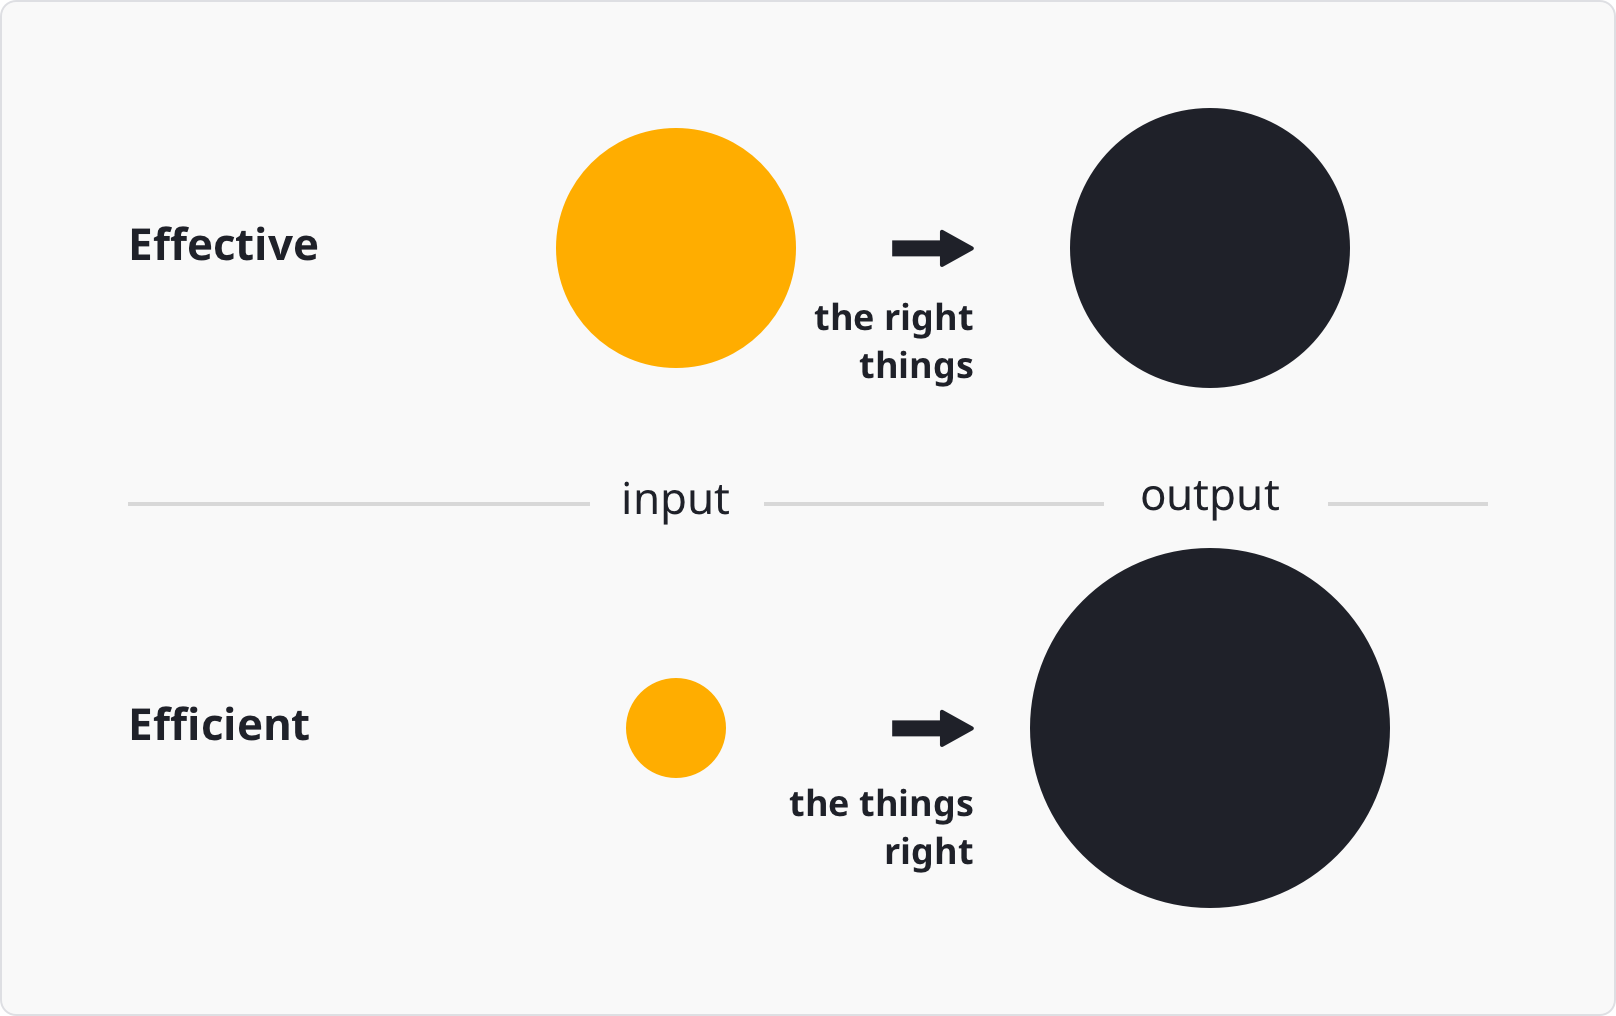
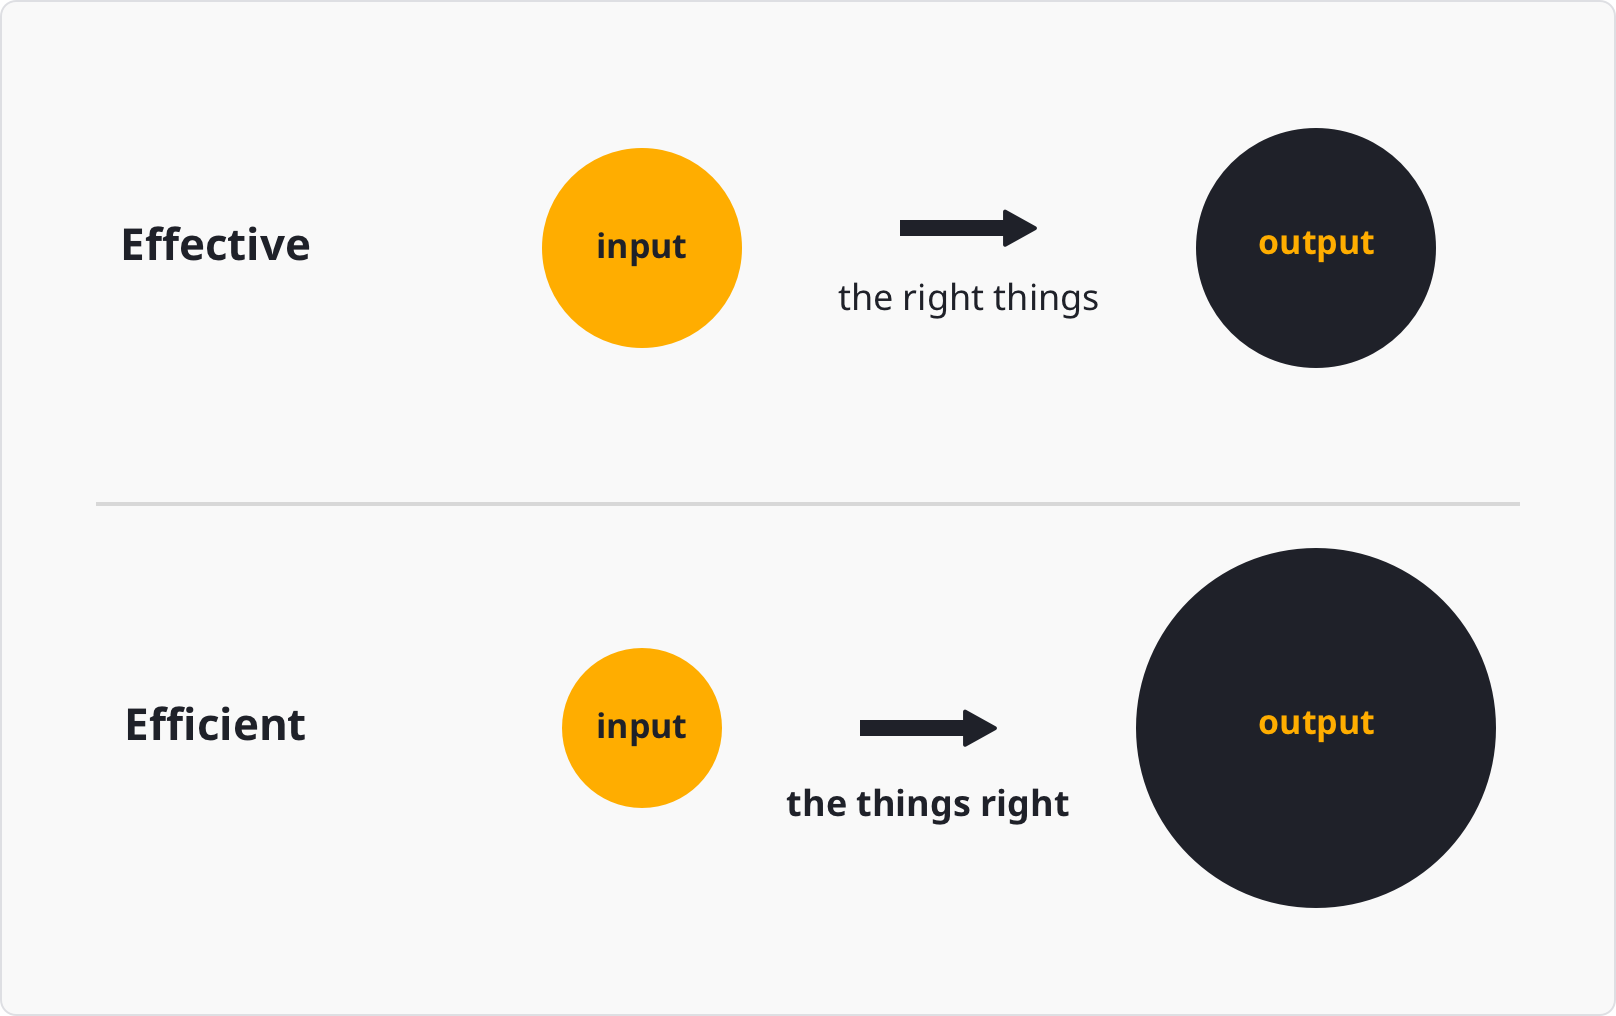
add draft content to invest section

diff --git a/hs-invest.md b/hs-invest.md
@@ -3,49 +3,43 @@ active: invest
 layout: default
 ---
 
-This website is meant primarily for potential investors and software developers looking for a secure and trustless way to invest in the very first commercial DAO company that replicates the business model of traditional for-profit corporations.
+This website is meant to be a guide for potential investors and software developers interested in becoming one of the decentralized owners of the independent for-profit DAO company.
 
-While we have no means to control who invests in Horizontal Systems DAO ideally we welcome investors and funds that clearly understand what DAO is and how it opeartes. We encourage poetntial investors to review Horizontal Systems repositories on Github to make sure that everything works exactly as claimed.
+While existing shareholders have no means to control who invests in Horizontal Systems DAO we invite parties which understand what this DAO is and how it operates. 
 
+We urge potential investors to read the information provided here and then verify that information by looking up the underlying smart contracts for [Horizontal Systems DAO](https://github.com/horizontalsystems/daico-smart-contracts  ) on the Ethereum blockchain.
 
-
-
-
-
+**Horizontal Systems DAO contract address: _to be provided after official launch_**
 
 
- - For profit
+<h2><center>Investors (Shareholders)</h2></center>
 
-You may easily verify that Horizontal Systems DAO is implemented the way shown above by looking up the underlying smart contracts for [Horizontal Systems DAO](https://github.com/horizontalsystems/daico-smart-contracts  ) on the Ethereum blockchain.
+Horizontal Systems DAO shares are represented as HSDAO tokens. Anyone owning HSDAO tokens is automatically a shareholder and able to exercise the influence over the DAO.
 
-- HS DAO contract: (token contract address)
-- HS DAICO contract: (token sale conrtact adderss)
-- HS Team contract: contract address
-- HS Investors contract: contract address
+The amount of tokens determines the amount of influence token holder has over the company. The investors are the ones who get to split company profits and control the finances. 
 
-**Note: The contracts are going to be available on Ethereum Blockchain after the token sale has been launched. The token sale will be launched after the very first product, a [BANK Wallet](https://github.com/orgs/horizontalsystems/projects/2), is live.**
+Tokens in circulation: _to be provided after official launch_
 
-Horizontal Systems DAO shares are represented as HSYS tokens. The amount of tokens determines the amount of influence token holder has over the company.
+
+<h2><center>Token Sale</h2></center>
 
 The process through which the tokens are sold is called [DAICO](https://cointelegraph.com/explained/what-is-a-daico-explained), which was initially proposed by [Vitalik Buterin](https://en.wikipedia.org/wiki/Vitalik_Buterin), a founder of Ethereum blockchain. 
 
+Unlike the traditional ICO models, the DAICO model offers significant advantage and guarantees security of invested funds:
 
-Unlike the traditional ICO models, the DAICO model offers significant adavntage and guatantess security of invested funds:
-
-- transparrent model
-- nearly zero risk
+- transparent model and nearly zero risk
 - backed by open source code
-- fully transapparent workflow
+- allows investors to collectively dissolve the company and return the invested funds.
 
-The investors are the ones who get to split company profits and control the finances. 
+
+<h2><center>Why Invest</h2></center>
 
 As we release dApps we aim to integrate monetization features into every decentralized product we develop. The apps will include various extra paid features on top of the standard functionality. 
 
 Unlocking these features will cost some money (charged in crypto) that would be directly deposited (in real time) to unchangeable investor-controlled smart contract which is designed to store and distribute profits from all released products. 
 
-
-the code is open-source: necessaru to boost adoption
-
-While we built these repositories specifically for the Horizontal Systems DApps they are also being released to global blockchain developer community to enable developers worldwide to build branded decentralized wallets, exchanges and other blockchain-powered DApps.
+As we build Horizontal Systems DApps we are releasing several software repositories to the crypto ecosystem enabling developers worldwide to build branded decentralized wallets, exchanges and other blockchain-powered DApps.
 
 The current milestones and progress on each milestone can be seen under the [Projects section](https://github.com/orgs/horizontalsystems/projects) on Github. Note that while the projects may seem unrelated for the most part they are closely interdependent. 
+
+<br/><br/>

diff --git a/hs-team.md b/hs-team.md
@@ -3,49 +3,54 @@ active: team
 layout: default
 ---
 
+At Horizontal Systems we are strong proponents of an efficient engineering process.
+
+<h2><center>The Right Way</center></h2>
+
+Doing the right things is a first step towards efficiency, however the real mastery achieved when **things are done the right way**, especially in software. 
+
+![Doing Things Right](/assets/images/efficient.png)
+
+The following quote from dated Steve Jobs interview describes this concept really well.
+
 >Now, in software, and it used to be the case in hardware, the difference between the average software developer and the best is 50:1; Maybe even 100:1. Very few things in life are like this...
 >
 >Steve Jobs, The Lost Interview
 
-At Horizontal Systems we are strong proponents of an efficient engineering process. 
+Having a compact and yet comprehensive team mastering the fundamentals of software engineering process is one of our strategic strengths. This enables us to maintain an efficient workflow and keep building quality libraries and products at an aggressive pace, outperforming corporations with 10x more people.
 
-Having a compact and yet comprehensive team mastering the fundamentals of software development process is one of our strategic strengths. This enables us to maintain an efficient workflow and keep building quality libraries and products at an aggressive pace, outperforming corporations with 10x more people.
+Our collective team expertise covers a wide range of fields:
 
-![Doing Things Right](/assets/images/efficient.png)
-
-Our collective team expertise covers a wide range of fields with a strong focus on blockchain and other emerging technologies listed below:
-
-1. Bitcoin protocol and forks
-2. Ethereum protocol
+1. Bitcoin and Ethereum protocols
+2. decentralized storage protocols
 3. smart contracts 
-4. new blockchain technologies
-4. cryptography & applied mathematics
-5. decentralized storage solutions
+4. emerging blockchain technologies
+5. cryptography & applied mathematics
 6. high-performance Android/iOS app development
 7. agile software development
 8. financial markets and derivatives
 
 
-<h2><center>Meet The Team</center></h2>
+<h2><center>The Team</center></h2>
 
-Everything about Horizontal Systems DAO is open source giving millions of software developers worldwide free and unrestricted access to the software powering Horizontal Systems as well as released products and pretty much every single bit of change made by team members, in real-time.
+While anyone is able to contribute to our work and get involved, the core team members do so on a full-time basis and get paid for it by DAO.
 
-[Team Members List]
+[//]: # (Team Members List)
 
-While anyone is able to contribute to our work and get involved the core team members do so on a full time basis and get paid for it by DAO. All core team members get an equal monthly salary from DAO.
-
-Current salary for core team member: [read from blockchain]
+All core team members get an equal monthly salary from DAO. The current salary for core team member is [read from blockchain]
 
 
 ### Join Development Team
 
-While the HS DAO engineering team is open to all it's of strategic importance to keep the team self-organized and compact. That said, we are passionately looking for the talented people with an engineer at heart, a passion to learn and desire to deliver. 
+While the HS DAO engineering team is open to all it's of strategic importance to keep the team self-organized and compact. That said, we are passionately looking for the talented people with an engineer at heart, a passion to learn and ability to meet high standards and beyond. 
 
-If you're interested we invite to get familiar with the Horizontal Systems DAO project [github.com/horizontalsystems/](https://github.com/horizontalsystems/) and start contributing. The application process is public and require an applicant to be an active contributor to the project on the time of application.
+If you're interested we invite you to get familiar with the Horizontal Systems DAO project [github.com/horizontalsystems/](https://github.com/horizontalsystems/) and start contributing. 
 
-All applications are public and go through team vote.
+The application process is public and require an applicant to be an active contributor to the project on the time of application.
 
-[link to a smart contract with apply function. The contract should keep track of all past applications and list them below]
+Apply to join Horizontal Systems development team.
+
+[//]: # (link to a smart contract with apply function. The contract should keep track of all past applications and list them below)
 
 
 ### Past & Present Applications
@@ -64,4 +69,4 @@ Nickname:
 - application status:
 - votes
 
-
+<br/><br/>

diff --git a/hs-dapps.md b/hs-dapps.md
@@ -5,9 +5,9 @@ layout: default
 
 Horizontal Systems DAO exists to build censorship-resistant financial DApps for mainstream audience. 
 
-With every DApp the Horizontal Systems DAO aims to disrupt a major sector of the rusty financial ecosystem and utimately deliver a significantly better value proposition to the end user.
+With every DApp the Horizontal Systems DAO aims to disrupt a major sector of the rusty financial ecosystem and ultimately deliver a significantly better value proposition to the end user.
 
-The DApps we develop make use of full potential of blockchain technology and therefore have the qualities of trully decentralized applications.
+The DApps we develop make use of full potential of blockchain technology and therefore have the qualities of truly decentralized applications.
 
 1. **Independent**: do not require any entity to function
 2. **Decentralized**: without centrally-managed servers
@@ -17,14 +17,13 @@ The DApps we develop make use of full potential of blockchain technology and the
 
 Apart from pursuing known best practices in blockchain engineering we strive to achieve excellence in other no less critical aspects of the software engineering in order to deliver the state of the art DApps.
 
-5. Open-source: 100% of the apps' code is public and open to review
-6. Smart software architecture: makes it easy to grow and add new app features
-7. Efficient architechture: work fast on any device
-8. Well-designed interface: designed and simplified, down to the minor detail
+5. **Open-source**: 100% of the apps' code is public and open to review
+6. **Flexible architecture**: easy to extend and add new app features
+7. **Efficient architecture**: fast performance on any device
+8. **Well-designed**: designed and simplified, down to the minor detail
 
 
-Meet the DApps by Horizontal Systems
-
+Meet the DApps by Horizontal Systems below.
 
 
 
@@ -32,7 +31,7 @@ Meet the DApps by Horizontal Systems
 
 Be Your Own Bank!
 
-The BANK Wallet is the first Horizontal Systems DApp and one of the more complex ones. It's a major milestone as the code developed for the Bank Wallet DApp is going to be used as the uilding blocks for upcoming projects.
+The BANK Wallet is the first Horizontal Systems DApp and one of the more complex ones. It's a major milestone as the code developed for the Bank Wallet DApp is going to be used as the building blocks for upcoming projects.
 
 - short description and features list (link to full description, ?on a subpage)
 - screenshots (link to description screenshots or gallery)
@@ -69,7 +68,6 @@ Remaining tasks: [github.com/orgs/horizontalsystems/projects/3  ](https://gi
 
 
 
-
 <center><h2>Decentralizaed Exchange</h2></center> 
 
 Decentralized crypto currency exchange that works without a middle men
@@ -89,6 +87,4 @@ Remaining tasks: [github.com/orgs/horizontalsystems/projects/4](https://github.c
 - DApp2
 - DApp3
 
-
-
-
+<br/><br/>
